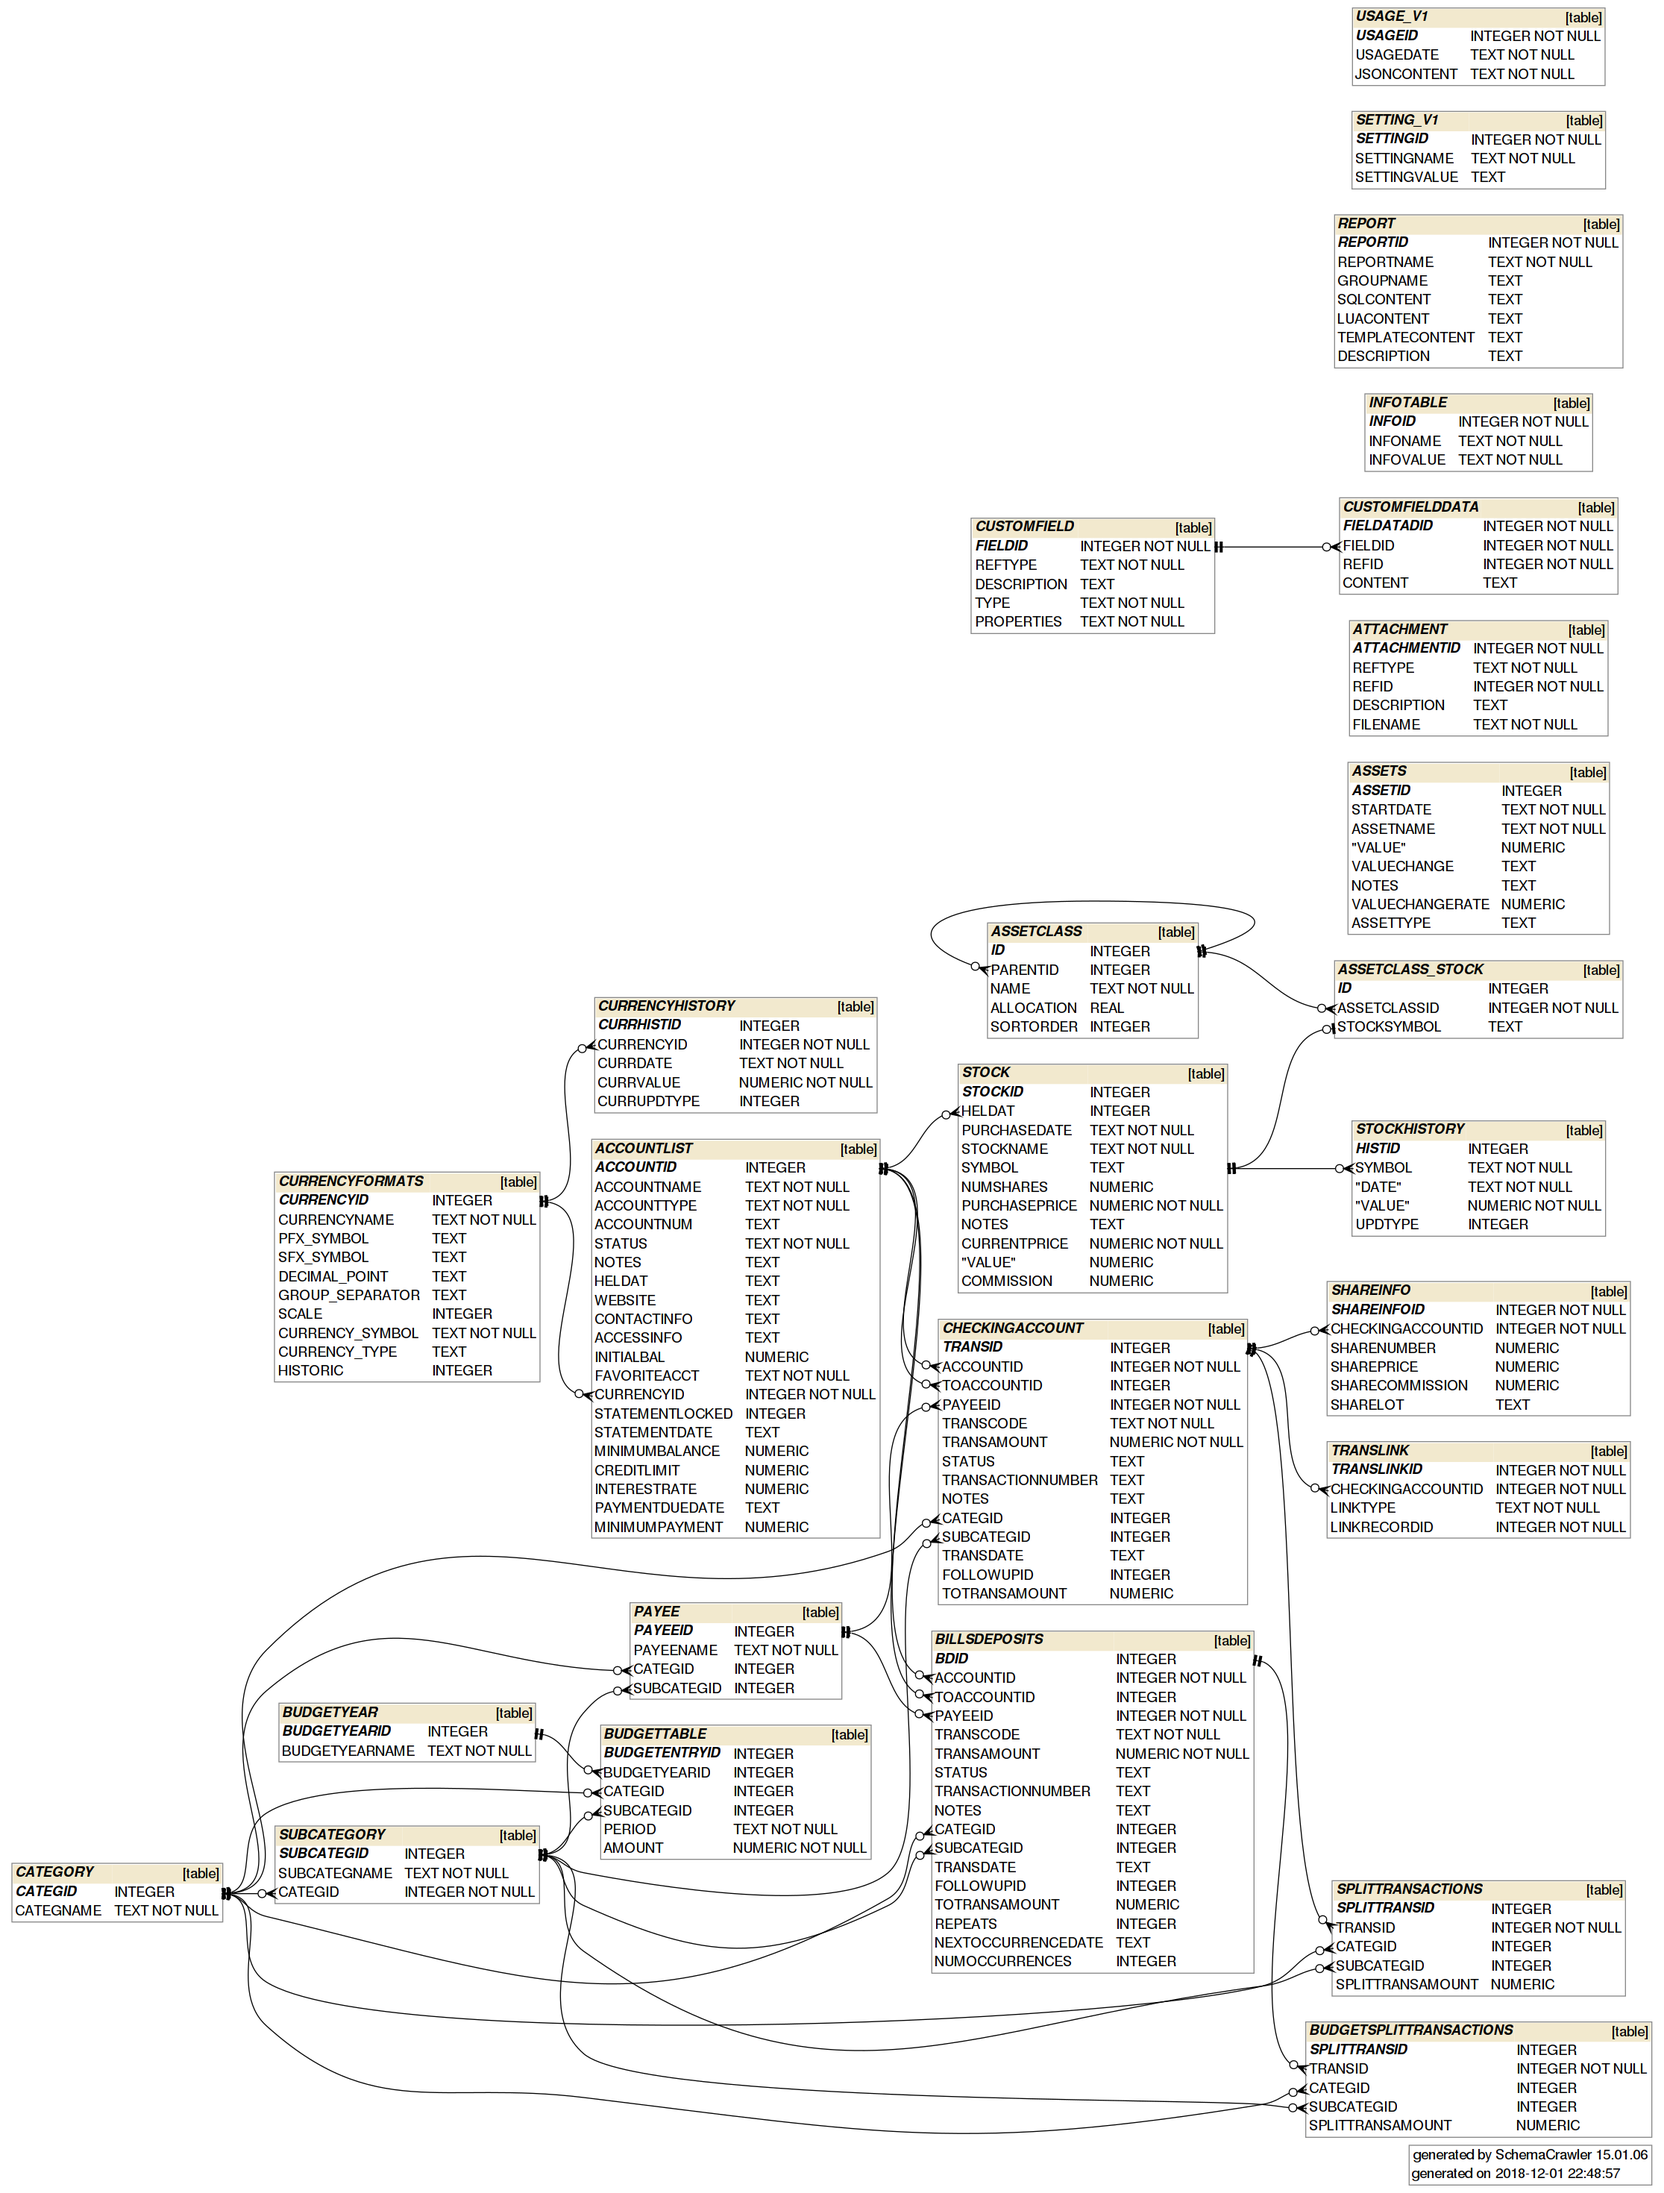
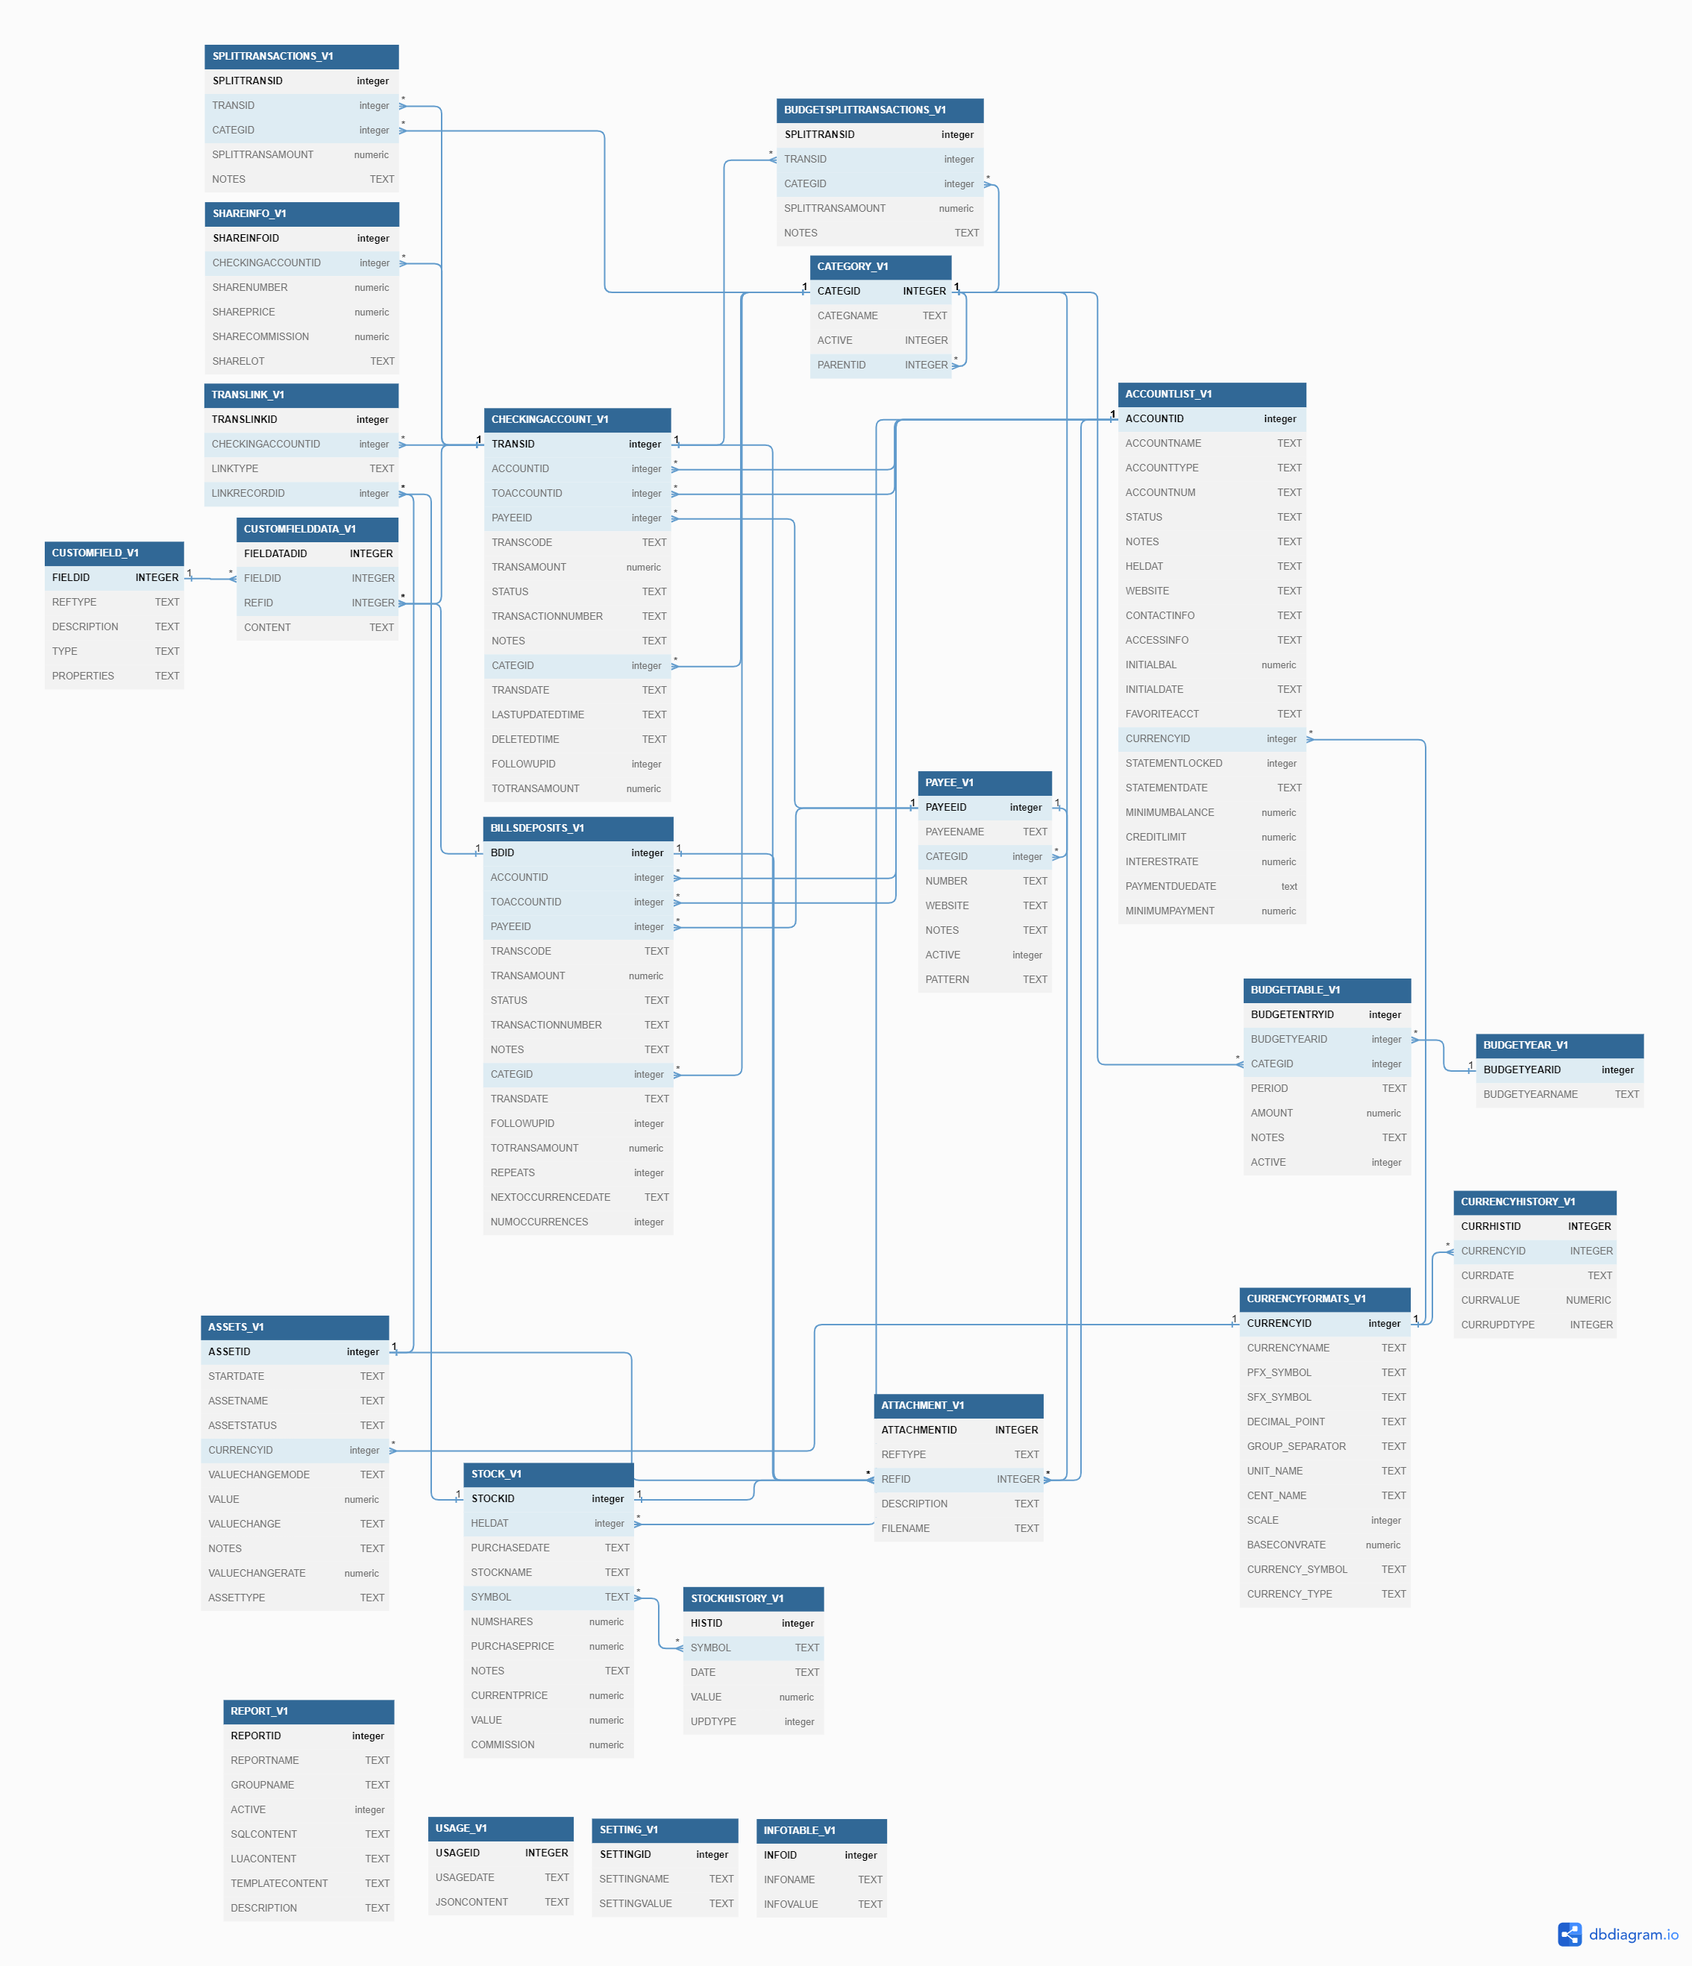
README diagram update v18

diff --git a/README.md b/README.md
@@ -5,11 +5,11 @@ database
 
 Available in [tables.sql](tables.sql) file.
 
-## UML
+## UML (as of v18)
 
-**NOTE: THIS DIAGRAM IS OUT-OF-DATE AND NEEDS UPDATING TO REFLECT THE LATEST V15 DATABASE**
+**Click the image below for an interactive diagram**
 
-![ER diagram](tables.png)
+[![ER diagram](tables.png)](https://dbdiagram.io/d/640ba8f4296d97641d871522)
 
 Relations not implemented at SQL level:
 
